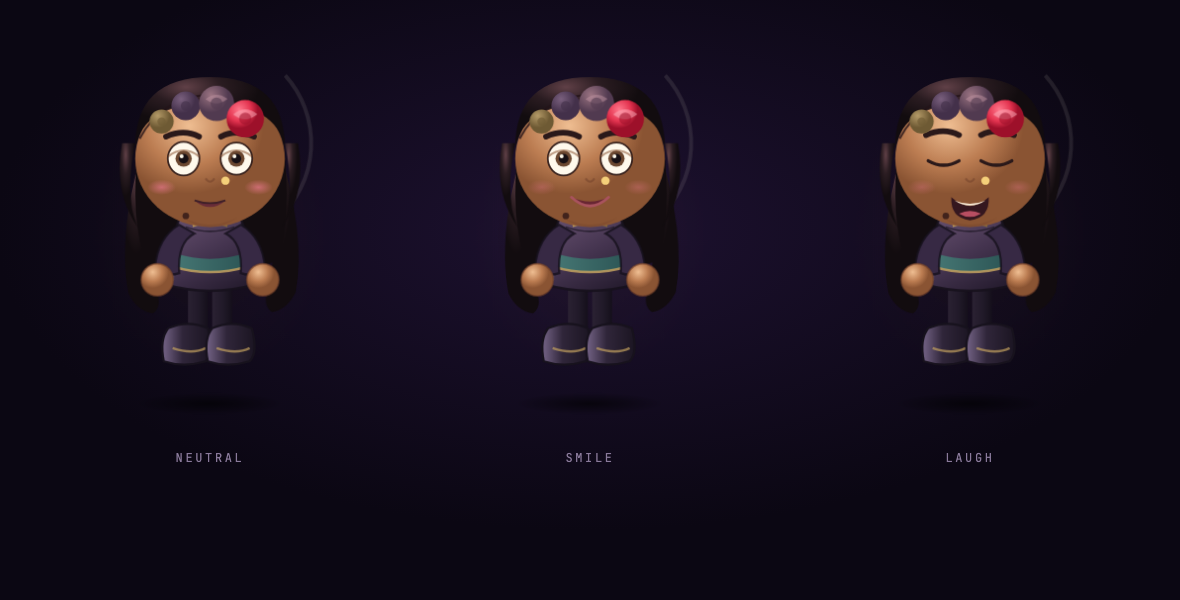
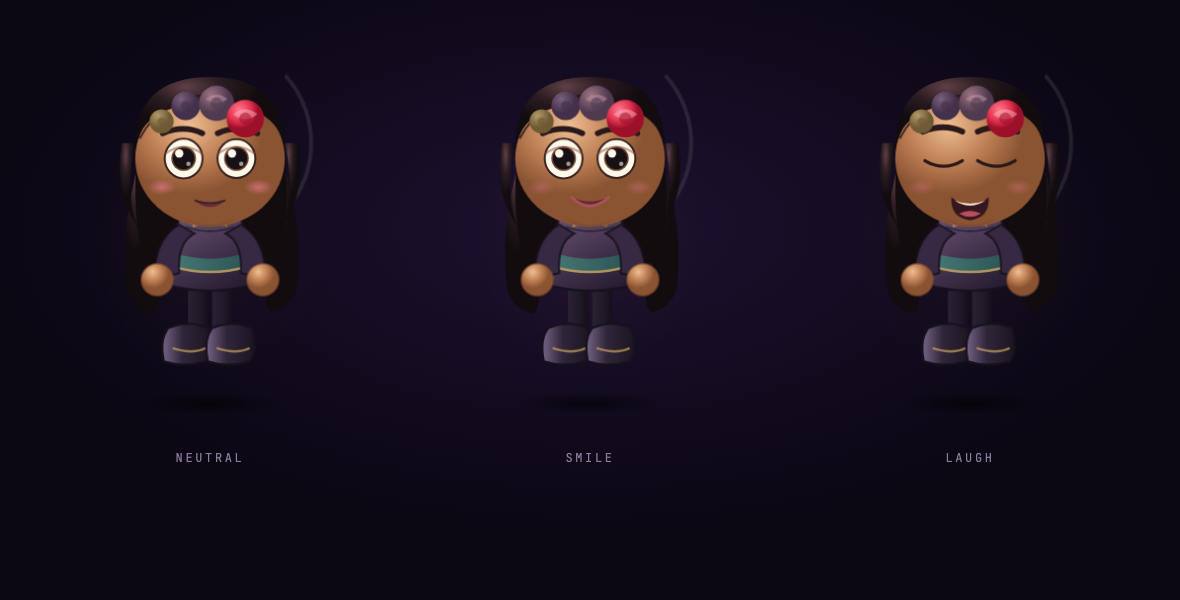
Googly eyes: bigger pupils, and the floating face dots removed
The gold nose stud, beauty mark and nose line read as stray circles on the
face rather than features, so all three are gone. Blush stays.

Eyes go properly googly: whites up from 7.2 to 8.6, pupils from 2.2 to 4.9 so
the dark disc dominates the white the way a real googly eye does, with a large
primary highlight and a small secondary gloss. The separate iris ring is now a
thin warm rim behind the pupil instead of a competing shape. Brows, lids,
squint and lid shading all widened to match.

Gaze gets an overshoot-and-settle curve plus a constant low wobble, out of
phase per eye, which is what sells googly over drawn.

diff --git a/index.html b/index.html
@@ -703,39 +703,40 @@ var IZZY_SVG =
 
   '<g class="eyes">'+
    '<g class="eyeL">'+
-    '<ellipse cx="63" cy="57" rx="7.2" ry="7.6" fill="#FFF9EC" stroke="#3A241F" stroke-width=".8"/>'+
-    '<circle cx="63" cy="57" r="3.7" fill="#6B4730"/>'+
-    '<g class="pupilL"><circle cx="63" cy="57" r="2.2" fill="#171014"/>'+
-     '<circle cx="62.1" cy="55.9" r=".9" fill="#FFF9EC"/></g>'+
+    '<ellipse cx="63" cy="57" rx="8.6" ry="9" fill="#FFF9EC" stroke="#3A241F" stroke-width=".9"/>'+
+    '<g class="pupilL">'+
+     '<circle cx="63" cy="57" r="5.6" fill="#6B4730"/>'+
+     '<circle cx="63" cy="57" r="4.9" fill="#171014"/>'+
+     '<circle cx="61" cy="54.7" r="1.9" fill="#FFF9EC"/>'+
+     '<circle cx="65.2" cy="59.4" r="1" fill="#FFF9EC" opacity=".6"/></g>'+
    '</g>'+
    '<g class="eyeR">'+
-    '<ellipse cx="87" cy="57" rx="7.2" ry="7.3" fill="#FFF9EC" stroke="#3A241F" stroke-width=".8"/>'+
-    '<circle cx="87" cy="57" r="3.7" fill="#6B4730"/>'+
-    '<g class="pupilR"><circle cx="87" cy="57" r="2.2" fill="#171014"/>'+
-     '<circle cx="86.1" cy="55.9" r=".9" fill="#FFF9EC"/></g>'+
+    '<ellipse cx="87" cy="57" rx="8.6" ry="8.8" fill="#FFF9EC" stroke="#3A241F" stroke-width=".9"/>'+
+    '<g class="pupilR">'+
+     '<circle cx="87" cy="57" r="5.6" fill="#6B4730"/>'+
+     '<circle cx="87" cy="57" r="4.9" fill="#171014"/>'+
+     '<circle cx="85" cy="54.7" r="1.9" fill="#FFF9EC"/>'+
+     '<circle cx="89.2" cy="59.4" r="1" fill="#FFF9EC" opacity=".6"/></g>'+
    '</g>'+
-   '<path d="M56 56 Q63 50.5 70 56" fill="none" stroke="#8A5433" stroke-width=".9" opacity=".55"/>'+
-   '<path d="M80 56 Q87 50.5 94 56" fill="none" stroke="#8A5433" stroke-width=".9" opacity=".55"/>'+
+   '<path d="M54.5 55 Q63 48.5 71.5 55" fill="none" stroke="#8A5433" stroke-width="1" opacity=".5"/>'+
+   '<path d="M78.5 55 Q87 48.5 95.5 55" fill="none" stroke="#8A5433" stroke-width="1" opacity=".5"/>'+
   '</g>'+
   /* lids: skin-filled caps that drop to close. Above every eye part. */
   '<g class="lids">'+
-   '<ellipse cx="63" cy="57" rx="7.6" ry="7.9" fill="url(#sk)"/>'+
-   '<ellipse cx="87" cy="57" rx="7.6" ry="7.6" fill="url(#sk)"/>'+
+   '<ellipse cx="63" cy="57" rx="9" ry="9.4" fill="url(#sk)"/>'+
+   '<ellipse cx="87" cy="57" rx="9" ry="9.2" fill="url(#sk)"/>'+
   '</g>'+
   /* squint, shown only while laughing */
   '<g class="squint">'+
-   '<path d="M56 58 Q63 62 70 58" fill="none" stroke="#2A191A" stroke-width="1.5" stroke-linecap="round"/>'+
-   '<path d="M80 58 Q87 62 94 58" fill="none" stroke="#2A191A" stroke-width="1.5" stroke-linecap="round"/>'+
+   '<path d="M54.5 58 Q63 63 71.5 58" fill="none" stroke="#2A191A" stroke-width="1.5" stroke-linecap="round"/>'+
+   '<path d="M78.5 58 Q87 63 95.5 58" fill="none" stroke="#2A191A" stroke-width="1.5" stroke-linecap="round"/>'+
   '</g>'+
   '<g class="brows">'+
-   '<path d="M55 47 Q63 43.5 70 47" fill="none" stroke="#2A191A" stroke-width="2.6" stroke-linecap="round"/>'+
-   '<path d="M80 47 Q87 43.5 95 47" fill="none" stroke="#2A191A" stroke-width="2.6" stroke-linecap="round"/>'+
+   '<path d="M53.5 45.5 Q63 41.5 71.5 45.5" fill="none" stroke="#2A191A" stroke-width="2.6" stroke-linecap="round"/>'+
+   '<path d="M78.5 45.5 Q87 41.5 96.5 45.5" fill="none" stroke="#2A191A" stroke-width="2.6" stroke-linecap="round"/>'+
   '</g>'+
 
-  '<path d="M73 66 q2 3 4 0" fill="none" stroke="#6F402A" stroke-width=".9" opacity=".5"/>'+
-  '<circle cx="82" cy="67" r="1.9" fill="#F5D07A"/>'+
-  '<circle cx="64" cy="83" r="1.5" fill="#41231C"/>'+
-
+  
   '<g class="mouth">'+
    '<g class="mouthNeutral">'+
     '<path d="M68 76 Q75 78.5 82 76 Q75 82 68 76 Z" fill="#682C38"/>'+
@@ -822,13 +823,21 @@ var IZZY_CSS = `
   96%,100%{transform:scaleY(0)}
 }
 /* idle gaze: both pupils move together, never near the white's edge */
-.izzy .pupilL,.izzy .pupilR{animation:iz-look 7.9s ease-in-out infinite}
+.izzy .pupilL,.izzy .pupilR{animation:iz-look 6.4s cubic-bezier(.34,1.56,.64,1) infinite}
+/* the googly wobble: a constant tiny settle, out of phase per eye */
+.izzy .eyeL .pupilL{animation:iz-look 6.4s cubic-bezier(.34,1.56,.64,1) infinite,iz-wobble 2.3s ease-in-out infinite}
+.izzy .eyeR .pupilR{animation:iz-look 6.4s cubic-bezier(.34,1.56,.64,1) infinite,iz-wobble 2.7s ease-in-out infinite -.4s}
+@keyframes iz-wobble{0%,100%{translate:0 0}50%{translate:0 .55px}}
 @keyframes iz-look{
-  0%,16%,100%{transform:translate(0,0)}
-  28%,39%{transform:translate(-1.5px,-.3px)}
-  51%{transform:translate(0,.4px)}
-  66%,78%{transform:translate(1.6px,-.1px)}
-  89%{transform:translate(0,0)}
+  0%,14%{transform:translate(0,0)}
+  22%{transform:translate(-2.6px,-.5px)}
+  26%,36%{transform:translate(-2px,-.2px)}
+  44%{transform:translate(.5px,1.1px)}
+  48%,54%{transform:translate(0,.7px)}
+  62%{transform:translate(2.7px,-.4px)}
+  66%,80%{transform:translate(2.1px,-.1px)}
+  88%{transform:translate(-.4px,.3px)}
+  92%,100%{transform:translate(0,0)}
 }
 
 /* ---- mouth states ---- */
@@ -1036,10 +1045,7 @@ function makeIzzy(node){
 };
 
 var IZ = makeIzzy($("izzy"));
-function setIzzy(state,status){
-  IZ.set(state);
-  $("izzyStatus").textContent=status;
-}
+function setIzzy(state,status){ IZ.set(state); $("izzyStatus").textContent=status; }
 $("hideIzzy").addEventListener("click",function(){
   var h=$("izzy").classList.toggle("hidden");
   this.textContent=h?"show izzy":"hide izzy";

diff --git a/demo.html b/demo.html
@@ -639,39 +639,40 @@ var IZZY_SVG =
 
   '<g class="eyes">'+
    '<g class="eyeL">'+
-    '<ellipse cx="63" cy="57" rx="7.2" ry="7.6" fill="#FFF9EC" stroke="#3A241F" stroke-width=".8"/>'+
-    '<circle cx="63" cy="57" r="3.7" fill="#6B4730"/>'+
-    '<g class="pupilL"><circle cx="63" cy="57" r="2.2" fill="#171014"/>'+
-     '<circle cx="62.1" cy="55.9" r=".9" fill="#FFF9EC"/></g>'+
+    '<ellipse cx="63" cy="57" rx="8.6" ry="9" fill="#FFF9EC" stroke="#3A241F" stroke-width=".9"/>'+
+    '<g class="pupilL">'+
+     '<circle cx="63" cy="57" r="5.6" fill="#6B4730"/>'+
+     '<circle cx="63" cy="57" r="4.9" fill="#171014"/>'+
+     '<circle cx="61" cy="54.7" r="1.9" fill="#FFF9EC"/>'+
+     '<circle cx="65.2" cy="59.4" r="1" fill="#FFF9EC" opacity=".6"/></g>'+
    '</g>'+
    '<g class="eyeR">'+
-    '<ellipse cx="87" cy="57" rx="7.2" ry="7.3" fill="#FFF9EC" stroke="#3A241F" stroke-width=".8"/>'+
-    '<circle cx="87" cy="57" r="3.7" fill="#6B4730"/>'+
-    '<g class="pupilR"><circle cx="87" cy="57" r="2.2" fill="#171014"/>'+
-     '<circle cx="86.1" cy="55.9" r=".9" fill="#FFF9EC"/></g>'+
+    '<ellipse cx="87" cy="57" rx="8.6" ry="8.8" fill="#FFF9EC" stroke="#3A241F" stroke-width=".9"/>'+
+    '<g class="pupilR">'+
+     '<circle cx="87" cy="57" r="5.6" fill="#6B4730"/>'+
+     '<circle cx="87" cy="57" r="4.9" fill="#171014"/>'+
+     '<circle cx="85" cy="54.7" r="1.9" fill="#FFF9EC"/>'+
+     '<circle cx="89.2" cy="59.4" r="1" fill="#FFF9EC" opacity=".6"/></g>'+
    '</g>'+
-   '<path d="M56 56 Q63 50.5 70 56" fill="none" stroke="#8A5433" stroke-width=".9" opacity=".55"/>'+
-   '<path d="M80 56 Q87 50.5 94 56" fill="none" stroke="#8A5433" stroke-width=".9" opacity=".55"/>'+
+   '<path d="M54.5 55 Q63 48.5 71.5 55" fill="none" stroke="#8A5433" stroke-width="1" opacity=".5"/>'+
+   '<path d="M78.5 55 Q87 48.5 95.5 55" fill="none" stroke="#8A5433" stroke-width="1" opacity=".5"/>'+
   '</g>'+
   /* lids: skin-filled caps that drop to close. Above every eye part. */
   '<g class="lids">'+
-   '<ellipse cx="63" cy="57" rx="7.6" ry="7.9" fill="url(#sk)"/>'+
-   '<ellipse cx="87" cy="57" rx="7.6" ry="7.6" fill="url(#sk)"/>'+
+   '<ellipse cx="63" cy="57" rx="9" ry="9.4" fill="url(#sk)"/>'+
+   '<ellipse cx="87" cy="57" rx="9" ry="9.2" fill="url(#sk)"/>'+
   '</g>'+
   /* squint, shown only while laughing */
   '<g class="squint">'+
-   '<path d="M56 58 Q63 62 70 58" fill="none" stroke="#2A191A" stroke-width="1.5" stroke-linecap="round"/>'+
-   '<path d="M80 58 Q87 62 94 58" fill="none" stroke="#2A191A" stroke-width="1.5" stroke-linecap="round"/>'+
+   '<path d="M54.5 58 Q63 63 71.5 58" fill="none" stroke="#2A191A" stroke-width="1.5" stroke-linecap="round"/>'+
+   '<path d="M78.5 58 Q87 63 95.5 58" fill="none" stroke="#2A191A" stroke-width="1.5" stroke-linecap="round"/>'+
   '</g>'+
   '<g class="brows">'+
-   '<path d="M55 47 Q63 43.5 70 47" fill="none" stroke="#2A191A" stroke-width="2.6" stroke-linecap="round"/>'+
-   '<path d="M80 47 Q87 43.5 95 47" fill="none" stroke="#2A191A" stroke-width="2.6" stroke-linecap="round"/>'+
+   '<path d="M53.5 45.5 Q63 41.5 71.5 45.5" fill="none" stroke="#2A191A" stroke-width="2.6" stroke-linecap="round"/>'+
+   '<path d="M78.5 45.5 Q87 41.5 96.5 45.5" fill="none" stroke="#2A191A" stroke-width="2.6" stroke-linecap="round"/>'+
   '</g>'+
 
-  '<path d="M73 66 q2 3 4 0" fill="none" stroke="#6F402A" stroke-width=".9" opacity=".5"/>'+
-  '<circle cx="82" cy="67" r="1.9" fill="#F5D07A"/>'+
-  '<circle cx="64" cy="83" r="1.5" fill="#41231C"/>'+
-
+  
   '<g class="mouth">'+
    '<g class="mouthNeutral">'+
     '<path d="M68 76 Q75 78.5 82 76 Q75 82 68 76 Z" fill="#682C38"/>'+
@@ -758,13 +759,21 @@ var IZZY_CSS = `
   96%,100%{transform:scaleY(0)}
 }
 /* idle gaze: both pupils move together, never near the white's edge */
-.izzy .pupilL,.izzy .pupilR{animation:iz-look 7.9s ease-in-out infinite}
+.izzy .pupilL,.izzy .pupilR{animation:iz-look 6.4s cubic-bezier(.34,1.56,.64,1) infinite}
+/* the googly wobble: a constant tiny settle, out of phase per eye */
+.izzy .eyeL .pupilL{animation:iz-look 6.4s cubic-bezier(.34,1.56,.64,1) infinite,iz-wobble 2.3s ease-in-out infinite}
+.izzy .eyeR .pupilR{animation:iz-look 6.4s cubic-bezier(.34,1.56,.64,1) infinite,iz-wobble 2.7s ease-in-out infinite -.4s}
+@keyframes iz-wobble{0%,100%{translate:0 0}50%{translate:0 .55px}}
 @keyframes iz-look{
-  0%,16%,100%{transform:translate(0,0)}
-  28%,39%{transform:translate(-1.5px,-.3px)}
-  51%{transform:translate(0,.4px)}
-  66%,78%{transform:translate(1.6px,-.1px)}
-  89%{transform:translate(0,0)}
+  0%,14%{transform:translate(0,0)}
+  22%{transform:translate(-2.6px,-.5px)}
+  26%,36%{transform:translate(-2px,-.2px)}
+  44%{transform:translate(.5px,1.1px)}
+  48%,54%{transform:translate(0,.7px)}
+  62%{transform:translate(2.7px,-.4px)}
+  66%,80%{transform:translate(2.1px,-.1px)}
+  88%{transform:translate(-.4px,.3px)}
+  92%,100%{transform:translate(0,0)}
 }
 
 /* ---- mouth states ---- */
